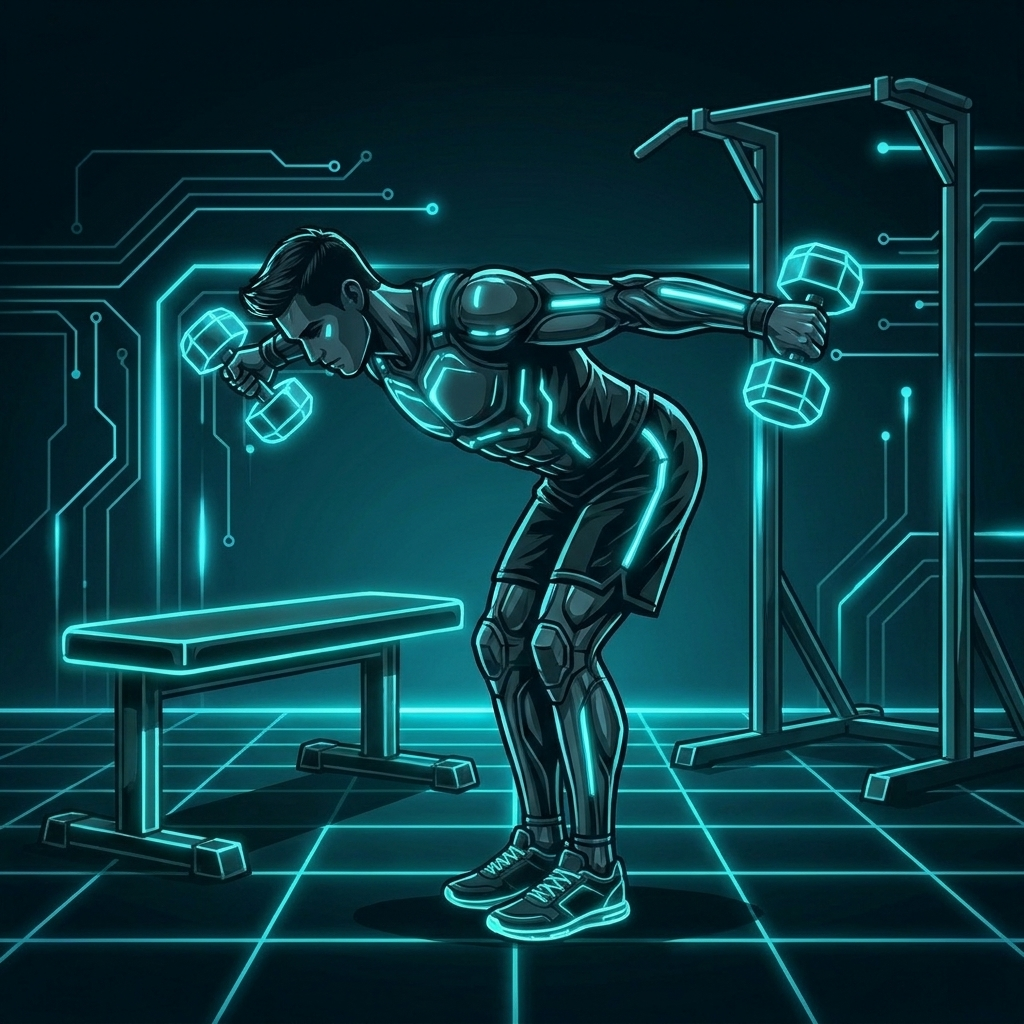
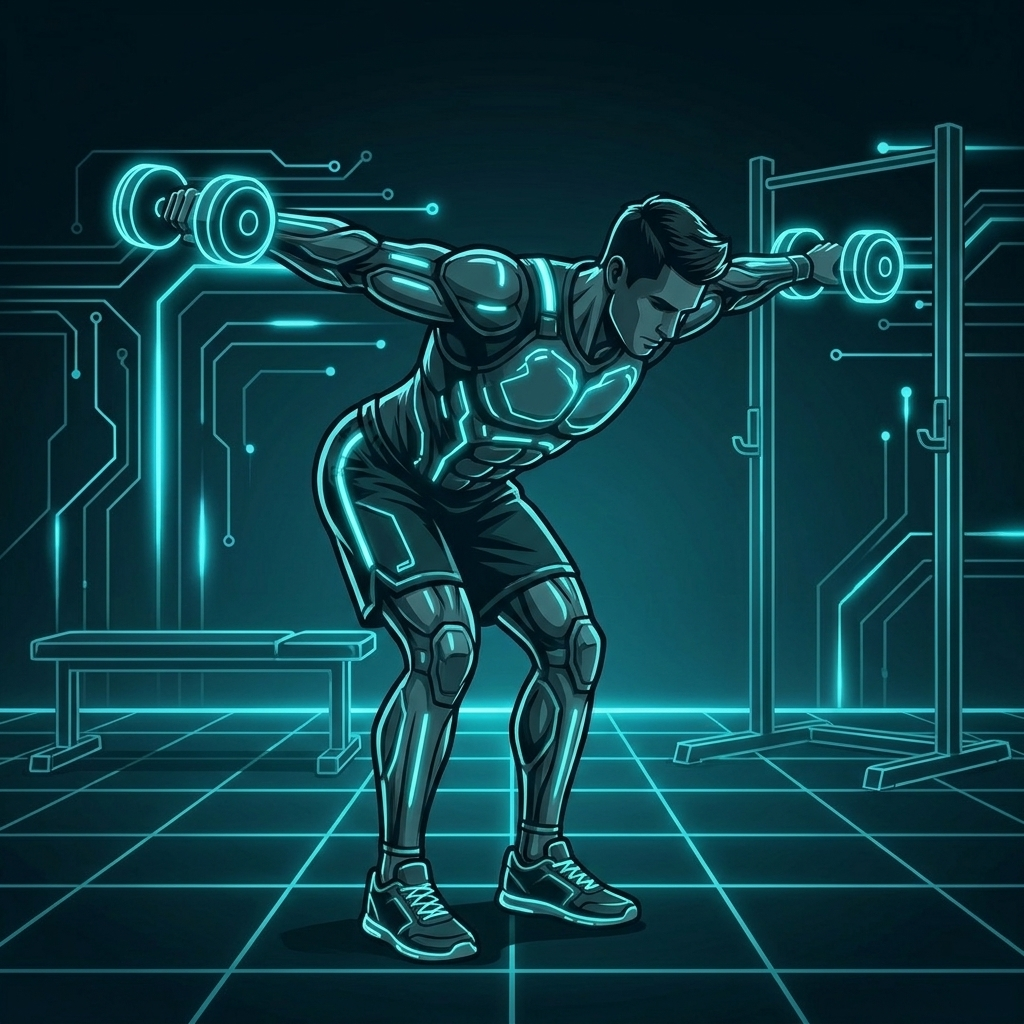
v2.13.0: Funde aus Release-Audit Runde 2 behoben
- R2a-1: Importmeldung zählt als „bereits vorhanden“ nur echte Dubletten,
  ungültige Einträge nicht mehr (neu durch den Fix aus Runde 1).
- R2a-3: Hilfetext zur Marke nennt den noch nicht trainierten Plan.
- R2a-7: Dubletten-Erkennung nur bei Datum als Text oder Zahl.
- R2b-1: Plan-Zeile gibt dem Namen den Platz zuerst, die Marken stapeln sich
  notfalls (langes Wort brach im Wort um).
- R2b-2: Übungsname reicht wieder in den Innenrand der Karte.
- R2b-3: aktiver Leisten-Knopf wird bei großer Schrift ins Bild geholt.
- R2b-4: Gesten auf Kopf und Rand der Hilfe bewegen die Seite nicht.
- R2b-5: Bilanz-Karte gleich hoch bei 7 und 28 Tagen.
- R2b-7: „ca. 20 Min“ bricht nicht zwischen Zahl und Einheit.
- R2b-8: Bild 45 mit beiden Armen symmetrisch seitlich.

E2E 419 grün (zwei Läufe), die neuen Prüfungen sind gegen d397cf8 rot.

Claude-Session: https://claude.ai/code/session_01SmuTmodjmBa2jV9krYBGTc

diff --git a/public/i18n.js b/public/i18n.js
@@ -35,7 +35,7 @@ window.I18N = (function () {
       'timer.label': 'PAUSE', 'timer.skip': 'Überspringen →',
       'help.title': 'ANLEITUNG',
       'help.dashboard.t': 'Dashboard',
-      'help.dashboard.b': 'Zeigt deine Trainingsstatistiken (Gesamt-Einheiten, diese Woche, letztes Training) und das zuletzt absolvierte Workout. Klicke direkt auf einen Plan um sofort zu starten. Sobald du zwei verschiedene Kraft-Pläne trainiert hast, markiert „Als Nächstes dran“ den Plan, der in deiner gewohnten Reihenfolge folgt; ohne Vorgeschichte den, der am längsten zurückliegt.',
+      'help.dashboard.b': 'Zeigt deine Trainingsstatistiken (Gesamt-Einheiten, diese Woche, letztes Training) und das zuletzt absolvierte Workout. Klicke direkt auf einen Plan um sofort zu starten. Sobald du zwei verschiedene Kraft-Pläne trainiert hast, markiert „Als Nächstes dran“ den Plan, der in deiner gewohnten Reihenfolge folgt; ohne Vorgeschichte einen Plan, den du noch nicht trainiert hast, sonst den, der am längsten zurückliegt.',
       'help.start.t': 'Training starten',
       'help.timer.t': 'Pause-Timer',
       'help.progress.t': 'Fortschritt',
@@ -46,7 +46,7 @@ window.I18N = (function () {
       'help.plans.t': 'Trainingspläne',
       'help.plan.push': 'Push — Brust, Schultern, Trizeps',
       'help.plan.pull': 'Pull — Rücken, Bizeps',
-      'help.plan.legs': 'Beine & Core', 'help.plan.core': 'Core & Rücken (Kurzprogramm, ca. 20 Min)',
+      'help.plan.legs': 'Beine & Core', 'help.plan.core': 'Core & Rücken (Kurzprogramm, ca.\u00a020\u00a0Min)',
       'help.plan.tabata': 'Tabata (20 Sek / 10 Sek × 8)',
       'help.plan.power': 'Power & Explosivkraft', 'help.plan.warmup': '5 Übungen ohne Gerät, je 40 s', 'help.plan.stretch': '7 Dehnungen, 30 s bzw. 30 s je Seite',
       'help.routine.t': 'Aufwärmen & Dehnen', 'help.routine.b': 'Über der ersten Übung jedes Trainings startet die Karte „Aufwärmen“ mit „▶ Start“ fünf Übungen ohne Gerät am Stück, nach dem Training fragt das Abschluss-Banner „Jetzt noch dehnen?“. Beides läuft von selbst weiter: Thorsten sagt die nächste Übung an, bei Dehnungen je Seite auch den Seitenwechsel. Im Timer zeigt ein Bild die Übung, der Knopf „So geht’s“ oben links blendet dazu die Beschreibung ein. Als Block im Training wird nichts gespeichert; als eigener Plan gestartet zählt es wie jede Einheit.',
@@ -169,7 +169,7 @@ window.I18N = (function () {
       'timer.label': 'REST', 'timer.skip': 'Skip →',
       'help.title': 'GUIDE',
       'help.dashboard.t': 'Dashboard',
-      'help.dashboard.b': 'Shows your training stats (total sessions, this week, last training) and your most recent workout. Tap a plan directly to start right away. Once you have trained two different strength plans, “Up next” marks the plan that follows in your usual order; without history, the one you trained longest ago.',
+      'help.dashboard.b': 'Shows your training stats (total sessions, this week, last training) and your most recent workout. Tap a plan directly to start right away. Once you have trained two different strength plans, “Up next” marks the plan that follows in your usual order; without history, a plan you have not trained yet, otherwise the one you trained longest ago.',
       'help.start.t': 'Start Training',
       'help.timer.t': 'Rest Timer',
       'help.progress.t': 'Progress',
@@ -180,7 +180,7 @@ window.I18N = (function () {
       'help.plans.t': 'Training Plans',
       'help.plan.push': 'Push — Chest, Shoulders, Triceps',
       'help.plan.pull': 'Pull — Back, Biceps',
-      'help.plan.legs': 'Legs & Core', 'help.plan.core': 'Core & Back (short routine, approx. 20 min)',
+      'help.plan.legs': 'Legs & Core', 'help.plan.core': 'Core & Back (short routine, approx.\u00a020\u00a0min)',
       'help.plan.tabata': 'Tabata (20 sec / 10 sec × 8)',
       'help.plan.power': 'Power & Explosiveness', 'help.plan.warmup': '5 exercises without equipment, 40 s each', 'help.plan.stretch': '7 stretches, 30 s or 30 s per side',
       'help.routine.t': 'Warm-up & stretching', 'help.routine.b': 'Above the first exercise of every workout, the “Warm-up” card\'s “▶ Start” runs five equipment-free exercises in one go; after the workout the completion banner asks “Stretch now?”. Both run on their own, with announcements by Thorsten, including when to switch sides on stretches done per side. In the timer a picture shows the exercise, and the “How-to” button at the top left adds its description. As a block inside a workout nothing is saved; started as its own plan it counts like any session.',

diff --git a/public/app.js b/public/app.js
@@ -34,11 +34,19 @@ async function api(path, opts = {}) {
 const views = document.querySelectorAll('.view');
 const navBtns = document.querySelectorAll('nav button');
 
+// Release-Audit v2.13 R2b-3: Passt die Leiste nicht (große Systemschrift, seitlich wischbar), steht der aktive Knopf nach einem Wechsel
+// per Programm („Zurück zum Dashboard“, Start eines Trainings) sonst außerhalb des Bildes. Kein scrollIntoView (bewegt auch die Seite).
+function showNavBtn(btn) {
+  const nav = btn && btn.parentElement;
+  if (!nav || nav.scrollWidth <= nav.clientWidth) return;
+  nav.scrollLeft = btn.offsetLeft - (nav.clientWidth - btn.offsetWidth) / 2;
+}
 navBtns.forEach(btn => {
   btn.addEventListener('click', () => {
     const target = btn.dataset.view;
     navBtns.forEach(b => b.classList.remove('active'));
     btn.classList.add('active');
+    showNavBtn(btn);
     views.forEach(v => v.classList.remove('active'));
     document.getElementById('view-' + target).classList.add('active');
     if (target === 'dashboard') loadDashboard();
@@ -568,6 +576,7 @@ function fmtSet(s) {
 function showWorkoutScreen(title, adhoc) {
   navBtns.forEach(b => b.classList.remove('active'));
   document.querySelector('[data-view="workout"]').classList.add('active');
+  showNavBtn(document.querySelector('[data-view="workout"]'));
   views.forEach(v => v.classList.remove('active'));
   document.getElementById('view-workout').classList.add('active');
   document.getElementById('workout-select-screen').style.display = 'none';
@@ -1758,12 +1767,18 @@ function renderBalance() {
   for (const g of data.groups) {
     const n = g[key];
     // „Ganzkörper“ ist kein Bereich, der fehlen kann: die Zeile steht nur, wenn im GEWÄHLTEN Zeitraum etwas gezählt wurde (a-6)
-    if (g.group === 'Ganzkörper' && !n) continue;
+    // Zählt er nur in „28 Tage“, hält die Zeile in „7 Tage“ unsichtbar ihren Platz: sonst änderte die Karte beim Umschalten ihre Höhe
+    // und das Übungs-Menü darunter rutschte (Runde 2, R2b-5).
+    const spacer = g.group === 'Ganzkörper' && !n;
+    if (spacer && !g.d28) continue;
     const row = document.createElement('div');
-    row.className = 'balance-row' + (n ? '' : ' zero');
+    row.className = 'balance-row' + (n ? '' : ' zero') + (spacer ? ' spacer' : '');
     // Screenreader (b9): eine Zeile = eine Aussage („Brust: 3 Sätze“) statt loser Texte „Brust“, „3“
-    row.setAttribute('role', 'img');
-    row.setAttribute('aria-label', I18N.t(n > 1 ? 'balance.row' : n ? 'balance.rowOne' : 'balance.rowNone', { group: I18N.muscle(g.group), n }));
+    if (spacer) row.setAttribute('aria-hidden', 'true');   // gleiche Zeile, nur unsichtbar: exakt gleiche Höhe
+    else {
+      row.setAttribute('role', 'img');
+      row.setAttribute('aria-label', I18N.t(n > 1 ? 'balance.row' : n ? 'balance.rowOne' : 'balance.rowNone', { group: I18N.muscle(g.group), n }));
+    }
     const name = document.createElement('span');
     name.className = 'balance-name';
     name.textContent = I18N.muscle(g.group);

diff --git a/public/style.css b/public/style.css
@@ -258,7 +258,10 @@ h3 {
 .plan-item:hover { border-color: var(--neon-mid); background: var(--neon-dim); }
 /* Release-Audit v2.13 c5 (älter): Ein Planname ohne Leerzeichen (eigener Plan, Import, bis 80 Zeichen) schob die Typ-Marken aller
    Zeilen aus dem Bild (overflow-x:hidden versteckte sie). Der Textblock darf schrumpfen, der Name bricht notfalls im Wort um. */
+/* Runde 2 (R2b-1): Der Name bekommt den Platz zuerst, die Marken rechts nehmen den Rest und stapeln sich notfalls — sonst schrumpften
+   beide anteilig und ein langes Wort brach schon bei normaler Schrift im Wort um („Klimmzugprogressio|n“). */
 .plan-item > div:first-child { min-width: 0; }
+.plan-item > :last-child { flex: 1 0 min-content; text-align: right; }
 .plan-name { font-family: var(--font-h); font-size: 0.68rem; letter-spacing: 1.5px; margin-bottom: 4px; overflow-wrap: anywhere; }
 .plan-meta { font-size: 0.75rem; color: var(--muted); font-family: var(--font-r); }
 .badge {
@@ -348,7 +351,9 @@ h3 {
 }
 /* Release-Audit v2.13 b5 (Muster älter): lange Wörter im Übungsnamen („Rückenstrecker“, „Schulterdehnung“) wurden bei schmalem Schirm
    und großer Schrift am Kartenrand abgeschnitten. Der Textblock darf schrumpfen, der Name bricht notfalls im Wort um. */
-.ex-info { flex: 1; min-width: 0; }
+/* Runde 2 (R2b-2): Der Block reicht wie vorher bis in den Innenrand der Karte (16 px), sonst brach schon die nachlaufende Sperrung
+   Namen um, die vorher ganz zu sehen waren („Kurzhantel Schulterdrücke|n“ bei großer Schrift). */
+.ex-info { flex: 1; min-width: 0; margin-right: -12px; }
 .ex-name {
   font-family: var(--font-h);
   font-size: 0.75rem;
@@ -643,6 +648,7 @@ input:-webkit-autofill, input:-webkit-autofill:hover, input:-webkit-autofill:foc
 .balance-num { font-family: var(--font-b); font-size: 0.78rem; text-align: right; color: var(--neon); }
 .balance-row.zero .balance-name, .balance-row.zero .balance-num { color: var(--muted); }
 .balance-row.zero .balance-track { border-style: dashed; }
+.balance-row.spacer { visibility: hidden; }
 .balance-empty { font-family: var(--font-r); font-size: 0.8rem; color: var(--muted); margin-bottom: 10px; }
 .balance-note { font-family: var(--font-r); font-size: 0.72rem; color: var(--muted); margin-top: 10px; line-height: 1.4; }
 .chart-combo { margin-bottom: 18px; }
@@ -847,6 +853,8 @@ input:-webkit-autofill, input:-webkit-autofill:hover, input:-webkit-autofill:foc
   padding: 20px 16px;
 }
 #help-overlay.open { display: flex; }
+/* Runde 2 (R2b-4): auch Gesten auf Kopf und Rand der Hilfe schoben die Seite dahinter weiter */
+#help-overlay { overflow-y: auto; overscroll-behavior: contain; }
 
 #help-modal {
   background: var(--card);

diff --git a/public/index.html b/public/index.html
@@ -346,7 +346,7 @@
     <div id="help-content">
       <div class="help-section">
         <div class="help-section-title" data-i18n="help.dashboard.t">Dashboard</div>
-        <p data-i18n="help.dashboard.b">Zeigt deine Trainingsstatistiken (Gesamt-Einheiten, diese Woche, letztes Training) und das zuletzt absolvierte Workout. Klicke direkt auf einen Plan um sofort zu starten. Sobald du zwei verschiedene Kraft-Pläne trainiert hast, markiert „Als Nächstes dran“ den Plan, der in deiner gewohnten Reihenfolge folgt; ohne Vorgeschichte den, der am längsten zurückliegt.</p>
+        <p data-i18n="help.dashboard.b">Zeigt deine Trainingsstatistiken (Gesamt-Einheiten, diese Woche, letztes Training) und das zuletzt absolvierte Workout. Klicke direkt auf einen Plan um sofort zu starten. Sobald du zwei verschiedene Kraft-Pläne trainiert hast, markiert „Als Nächstes dran“ den Plan, der in deiner gewohnten Reihenfolge folgt; ohne Vorgeschichte einen Plan, den du noch nicht trainiert hast, sonst den, der am längsten zurückliegt.</p>
       </div>
       <div class="help-section">
         <div class="help-section-title" data-i18n="help.start.t">Training starten</div>
@@ -390,7 +390,7 @@
           <div class="help-plan-row"><span class="badge" data-i18n="badge.strength">Kraft</span><span data-i18n="help.plan.push">Push — Brust, Schultern, Trizeps</span></div>
           <div class="help-plan-row"><span class="badge" data-i18n="badge.strength">Kraft</span><span data-i18n="help.plan.pull">Pull — Rücken, Bizeps</span></div>
           <div class="help-plan-row"><span class="badge" data-i18n="badge.strength">Kraft</span><span data-i18n="help.plan.legs">Beine &amp; Core</span></div>
-          <div class="help-plan-row"><span class="badge" data-i18n="badge.strength">Kraft</span><span data-i18n="help.plan.core">Core &amp; Rücken (Kurzprogramm, ca. 20 Min)</span></div>
+          <div class="help-plan-row"><span class="badge" data-i18n="badge.strength">Kraft</span><span data-i18n="help.plan.core">Core &amp; Rücken (Kurzprogramm, ca.&nbsp;20&nbsp;Min)</span></div>
           <div class="help-plan-row"><span class="badge hit" data-i18n="badge.hit">HIT</span><span data-i18n="help.plan.tabata">Tabata (20 Sek / 10 Sek × 8)</span></div>
           <div class="help-plan-row"><span class="badge hit" data-i18n="badge.hit">HIT</span><span data-i18n="help.plan.power">Power &amp; Explosivkraft</span></div>
           <div class="help-plan-row"><span class="badge" data-i18n="badge.warmup">Aufwärmen</span><span data-i18n="help.plan.warmup">5 Übungen ohne Gerät, je 40 s</span></div>

diff --git a/public/local-db.js b/public/local-db.js
@@ -541,7 +541,6 @@ window.LocalData = (function () {
     const rawSessions = (Array.isArray(obj.sessions) ? obj.sessions : []).filter(isRec);
     const rawSets = (Array.isArray(obj.sets) ? obj.sets : []).filter(isRec);
     const rawPlans = (Array.isArray(obj.custom_plans) ? obj.custom_plans : []).filter(isRec); // fehlt in v1-Backups → leer
-    const nSessions = Array.isArray(obj.sessions) ? obj.sessions.length : 0;
     // VOR dem Öffnen der Schreib-Transaktion lesen: ein await auf eine fremde
     // Transaktion würde die readwrite-Transaktion auto-committen (TransactionInactiveError)
     const existingStarts = new Set(merge ? (await allFrom('sessions')).map(s => dateKey(s.started_at)) : []);
@@ -551,11 +550,11 @@ window.LocalData = (function () {
     // okDate) — sonst bekäme ein Alt-Datum bei jedem Import eine neue Importzeit und würde verdoppelt (Audit run-2 R2-3).
     const plans = rawPlans.map(p => ({ origId: finiteOrNull(p.id), rec: cleanPlan(p) }));
     const sessions = rawSessions.map(s => ({ id: s.id, rec: cleanSession(s),
-      dup: merge && s.started_at != null && existingStarts.has(dateKey(s.started_at)) }));
+      dup: merge && prim(s.started_at) && existingStarts.has(dateKey(s.started_at)) }));
     const sets = rawSets.map(s => ({ session_id: s.session_id, rec: cleanSet(s) }));
 
     const { os: [sessStore, setStore, planStore], done, abort } = wtx(['sessions', 'sets', 'custom_plans']);
-    let imported = 0, importedSets = 0;
+    let imported = 0, importedSets = 0, skipped = 0;   // skipped: nur Dubletten (Release-Audit v2.13 R2a-1), ungültige Einträge zählen nicht
     try {
       if (!merge) {
         await reqP(sessStore.clear());
@@ -584,7 +583,7 @@ window.LocalData = (function () {
         }
         // Merge: Einheit mit identischem Startzeitpunkt existiert schon (gleiches Backup
         // zweimal) → überspringen; ihre Sätze werden unten ebenfalls verworfen
-        if (s.dup) continue;
+        if (s.dup) { skipped++; continue; }
         const newId = await reqP(sessStore.add(rec));
         if (s.id != null) idMap.set(s.id, newId);
         imported++;
@@ -604,8 +603,7 @@ window.LocalData = (function () {
 
     await done;   // Commit abwarten (C1): sonst meldet der Import Zahlen, die nie gespeichert wurden
     await refreshCustomCache();
-    return { sessions: imported, sets: importedSets, plans: plans.length,
-             skipped: nSessions - imported };
+    return { sessions: imported, sets: importedSets, plans: plans.length, skipped };
   }
 
   return {
